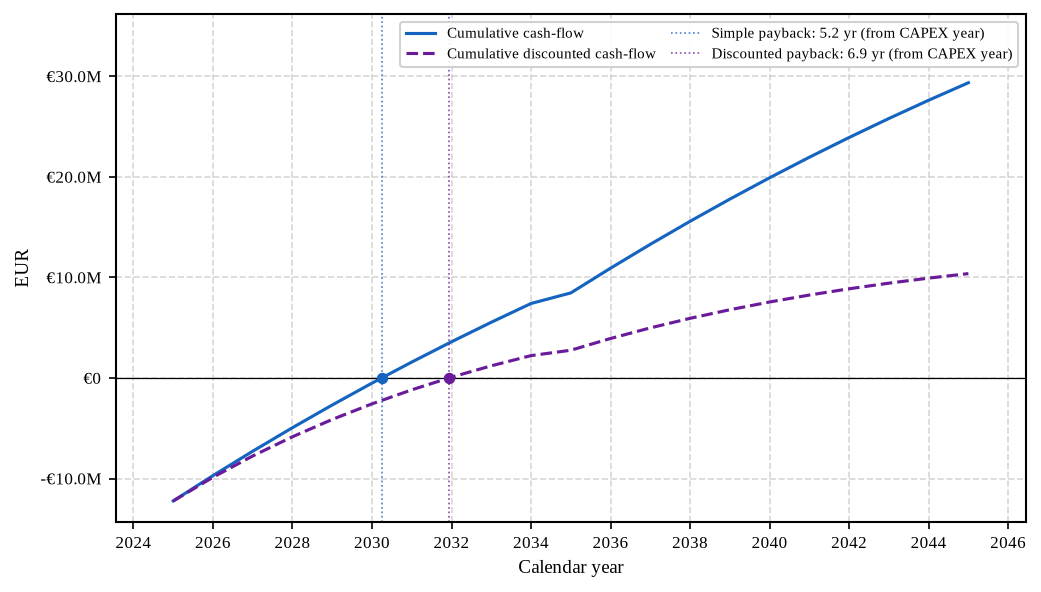
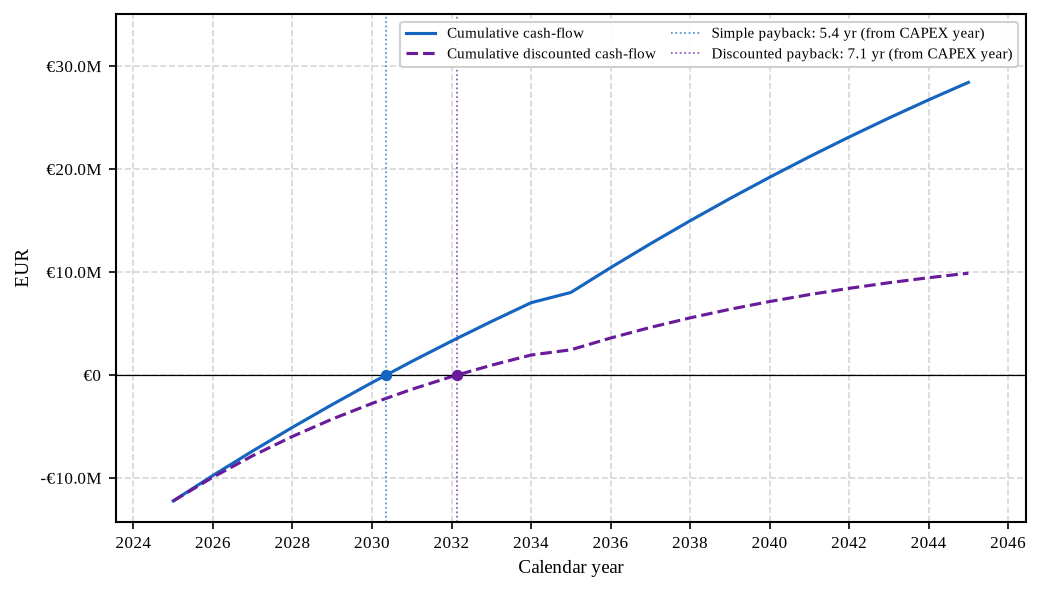
docs(audit): truth-up docs, surfaces and the result gallery for the BSP fee
Phase 6. Describe both fees consistently across the README, the six design
docs (merchant_design and ppa_design previously said 'balancing carries no
fee'; now 'no energy-aggregator fee, but may carry the optional BSP fee' /
'PPA carries neither fee'), conventions, docs/README, the Sphinx inputs.rst
and the CHANGELOG. Re-prove the three config surfaces resolve the new key
identically (schema-derived). Add a balancing_aggregator_fee_pct knob to
export_readme_figures.py and regenerate the merchant+balancing gallery at a
representative 10 % fee: the revenue-stack and waterfall PNGs gain the fee
bar/step, the cumulative-cashflow PNG steps lower, while the LCOS band is
byte-identical (confirming LCOS excludes balancing and its fee).

diff --git a/scripts/export_readme_figures.py b/scripts/export_readme_figures.py
@@ -70,6 +70,7 @@ _SELF_CONSUMPTION_DAILY_FIGURES = {
 
 def _build_workbook(
     dst_dir: Path, *, mode: str, balancing: bool, one_day: bool,
+    balancing_aggregator_fee_pct: float = 0.0,
 ) -> Path:
     """Materialise a single-scenario workbook from the shipped input.
 
@@ -78,10 +79,18 @@ def _build_workbook(
     otherwise the full year runs with the energy-plot fan-out switched off
     (only the financial figures are needed, and the per-day plots over a
     full year dominate the wall-clock).
+
+    ``balancing_aggregator_fee_pct`` sets the optional BSP / route-to-market
+    fee so the gallery's balancing scenario visibly carries the deduction
+    (it defaults to 0 on the shipped workbook); the merchant+balancing
+    figures use a representative non-zero value to show the new line.
     """
     typed = read_workbook(REPO_ROOT / "inputs" / "input.xlsx")
     typed["project"]["mode"] = mode
     typed["balancing"]["balancing_enabled"] = balancing
+    typed["economics"]["balancing_aggregator_fee_pct_revenue"] = (
+        balancing_aggregator_fee_pct
+    )
     typed["ppa"]["ppa_enabled"] = False
     typed["simulation"]["uncertainty_enabled"] = False
     # The gallery uses none of the uncertainty diagnostic plots, which
@@ -104,9 +113,11 @@ def _build_workbook(
 
 
 def _run(dst_dir: Path, *, mode: str, balancing: bool, one_day: bool,
-         mip_gap: float, time_limit: int) -> Path:
+         mip_gap: float, time_limit: int,
+         balancing_aggregator_fee_pct: float = 0.0) -> Path:
     wb = _build_workbook(
         dst_dir, mode=mode, balancing=balancing, one_day=one_day,
+        balancing_aggregator_fee_pct=balancing_aggregator_fee_pct,
     )
     run(RunConfig(
         excel=wb, solver="highs", outdir=dst_dir / "out",
@@ -149,6 +160,9 @@ def main(argv: list[str] | None = None) -> int:
             merchant_run = _run(
                 tmp_dir / "merchant", mode="merchant", balancing=True,
                 one_day=False, mip_gap=args.mip_gap, time_limit=args.time_limit,
+                # Representative BSP / route-to-market fee so the gallery's
+                # revenue stack and waterfall show the deduction line.
+                balancing_aggregator_fee_pct=10.0,
             )
             written += _curate(merchant_run, _MERCHANT_FIGURES)
 

diff --git a/docs/independent_audit_v2_report.md b/docs/independent_audit_v2_report.md
@@ -320,6 +320,53 @@ default-off behaviour.
 
 ---
 
-## Independent sign-off
+## Phase 6 — surface equivalence & docs/image truth
 
-_Pending Phase 7._
+**Three surfaces.** The new `balancing_aggregator_fee_pct_revenue` is on all
+three config surfaces by construction (schema-derived): the shipped
+`inputs/input.xlsx` carries the row (default 0.0, regenerated atomically via
+`scripts/polish_input_workbook.py`); a YAML/JSON `--config` accepts the key
+(probe: config sets 12.5, loads 12.5); the scenario dotted target
+`economics.balancing_aggregator_fee_pct_revenue` validates. The
+surface-parity suite (`test_input_surface_parity.py`, schema-driven over
+`_SHEET_DEFAULTS` / `_SHEET_ROW_TEMPLATES`) and `test_io_v08_schema` /
+`test_workbook_io` (extended) lock this.
+
+**Docs truthed-up.** Both fees are now described consistently across README,
+the six `*_design.md` docs (economics, balancing, self_consumption, merchant,
+ppa, uncertainty), `conventions.md`, `docs/README.md`, the Sphinx
+`inputs.rst`, and the CHANGELOG. The two design docs that previously stated
+"balancing carries no fee" (`merchant_design.md`, `ppa_design.md`) now read
+"no energy-aggregator fee, but may carry the optional BSP fee" / "PPA carries
+neither fee". `make -C docs html` builds clean (only the 5 network-only
+intersphinx warnings) and `test_docs_build` passes. CITATION/version stay at
+0.9.0 / 2026-06-27 per the kept prior decision (`test_version_badge_consistency`
+green).
+
+**Result gallery.** `scripts/export_readme_figures.py` gains a
+`balancing_aggregator_fee_pct` knob and renders the merchant+balancing
+scenario with a representative 10 % BSP fee so the regenerated PNGs show the
+new deduction. The regeneration is itself a scope check: the merchant
+revenue-stack and BESS-waterfall PNGs change (the fee bar / step appear), the
+cumulative-cashflow PNG steps lower (the DCF consumes the net), while
+`merchant_lcos_band.png` comes back **byte-identical** — confirming LCOS
+excludes balancing and its fee — and the two self-consumption PNGs are
+unchanged (no balancing). The self-consumption gallery runs were not
+re-rendered (content-identical and the full-year lifetime-dispatch expansion
+peaks ~10 GB; bounding the resource cost). Captions updated; relative
+`docs/assets/...` paths render on GitHub.
+
+**Matrix reconciliation.** A full merchant+balancing pipeline run with a 15 %
+BSP fee was inspected end-to-end: `03_results.xlsx` carries the
+`balancing_aggregator_fee_eur` column on `cashflow_yearly` /
+`cashflow_quarterly` / `cashflow_monthly` with the Year-1 ratio exactly
+−0.1500 of gross balancing, the `financial_kpis` sheet exposes
+`lifetime_bm_aggregator_fee_total_eur` and `lifetime_bm_revenue_net_total_eur`
+(net = gross + fee), and `00_summary/SUMMARY.md` is written — SUMMARY ↔
+results ↔ KPIs reconcile.
+
+---
+
+## Phase 7 — independent acceptance & sign-off
+
+_Pending the final clean gate re-run._

diff --git a/docs/merchant_design.md b/docs/merchant_design.md
@@ -123,10 +123,13 @@ grid-charging expense — the BESS-DAM bundling convention), and the
 five `revenue_bess_<product>_eur` balancing aggregates.
 `revenue_self_consumption_eur` ≡ 0 by construction
 (`kpis._compute_canonical_revenue_aggregates` zeroes it for
-merchant).  The aggregator fee applies once to the (here purely DAM)
-gross market revenue; balancing and PPA streams carry no fee.  The
-cashflow projection, degradation scaling, LCOE/LCOS and debt algebra
-are mode-agnostic.
+merchant).  The energy-aggregator fee applies once to the (here purely
+DAM) gross market revenue; PPA carries no fee, and balancing carries no
+energy-aggregator fee but MAY carry the optional, separate
+balancing-aggregator (BSP / route-to-market) fee
+(`balancing_aggregator_fee_pct_revenue`, default 0 — see
+`docs/economics_design.md`).  The cashflow projection, degradation
+scaling, LCOE/LCOS and debt algebra are mode-agnostic.
 
 ## KPI definitions
 

diff --git a/docs/ppa_design.md b/docs/ppa_design.md
@@ -137,11 +137,12 @@ indexation knob — deliberately independent of `retail_inflation_pct`
 Scope rules (one scope across every consumer —
 `pvbess_opt/conventions.md` "PPA stream scope"):
 
-* **Aggregator fee** — NOT applied to PPA revenue while under
-  contract: a bilateral offtake settles directly with the offtaker,
-  mirroring the balancing/TSO convention.  The fee continues to apply
-  to DAM/retail market revenue, including the post-term reverted
-  volume.
+* **Aggregator fee** — the energy-aggregator fee is NOT applied to PPA
+  revenue while under contract: a bilateral offtake settles directly with
+  the offtaker.  PPA carries neither the energy-aggregator fee nor the
+  optional balancing-aggregator (BSP) fee — only balancing revenue may
+  carry the latter.  The energy fee continues to apply to DAM/retail
+  market revenue, including the post-term reverted volume.
 * **LCOE/LCOS** — unchanged: Lazard-style cost-per-MWh metrics are
   revenue-agnostic, so the PPA (like balancing revenue) never enters
   them.

diff --git a/README.md b/README.md
@@ -353,12 +353,15 @@ participation stacked on the battery.
 ![Merchant yearly revenue stack](docs/assets/merchant_revenue_stack.png)
 
 *Yearly revenue stack — PV-DAM and BESS-DAM exports plus the five
-balancing products, net of the aggregator fee and grid-charging cost.*
+balancing products, net of the energy-aggregator fee, grid-charging cost
+and the optional balancing-aggregator (BSP / route-to-market) fee (shown
+here at a representative 10 % of balancing revenue).*
 
 ![BESS revenue waterfall](docs/assets/merchant_bess_revenue_waterfall.png)
 
 *BESS revenue waterfall — stepping from DAM arbitrage through each
-balancing product to the total battery revenue.*
+balancing product, then down by the balancing-aggregator (BSP) fee, to the
+total battery revenue.*
 
 ![LCOS benchmark band](docs/assets/merchant_lcos_band.png)
 